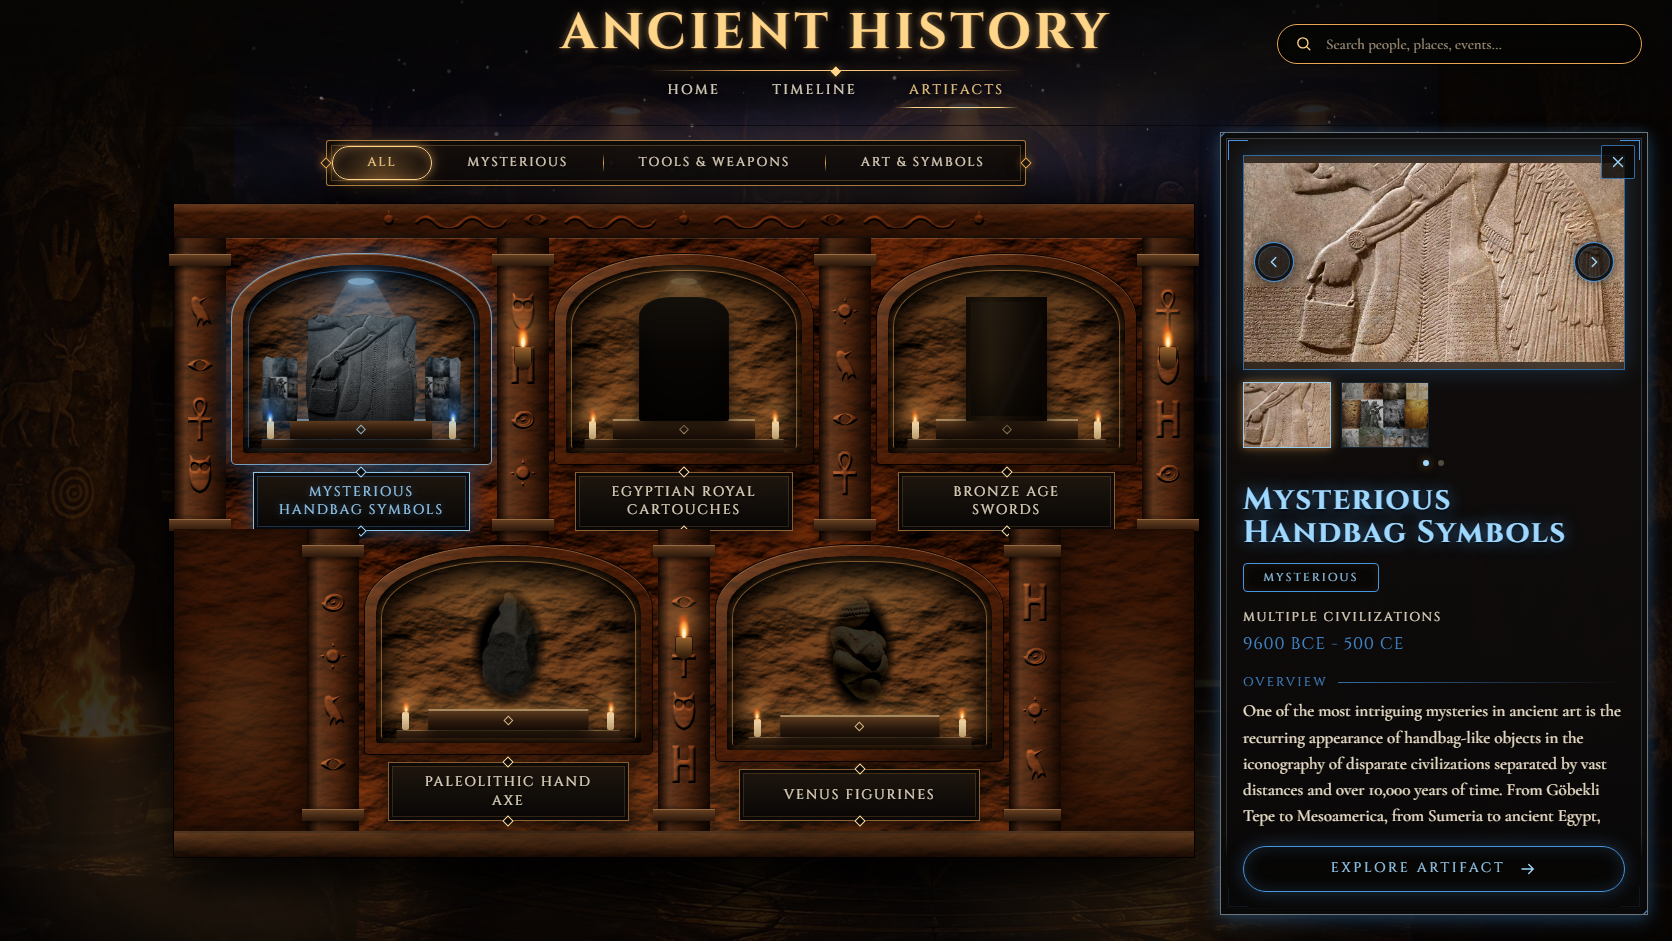
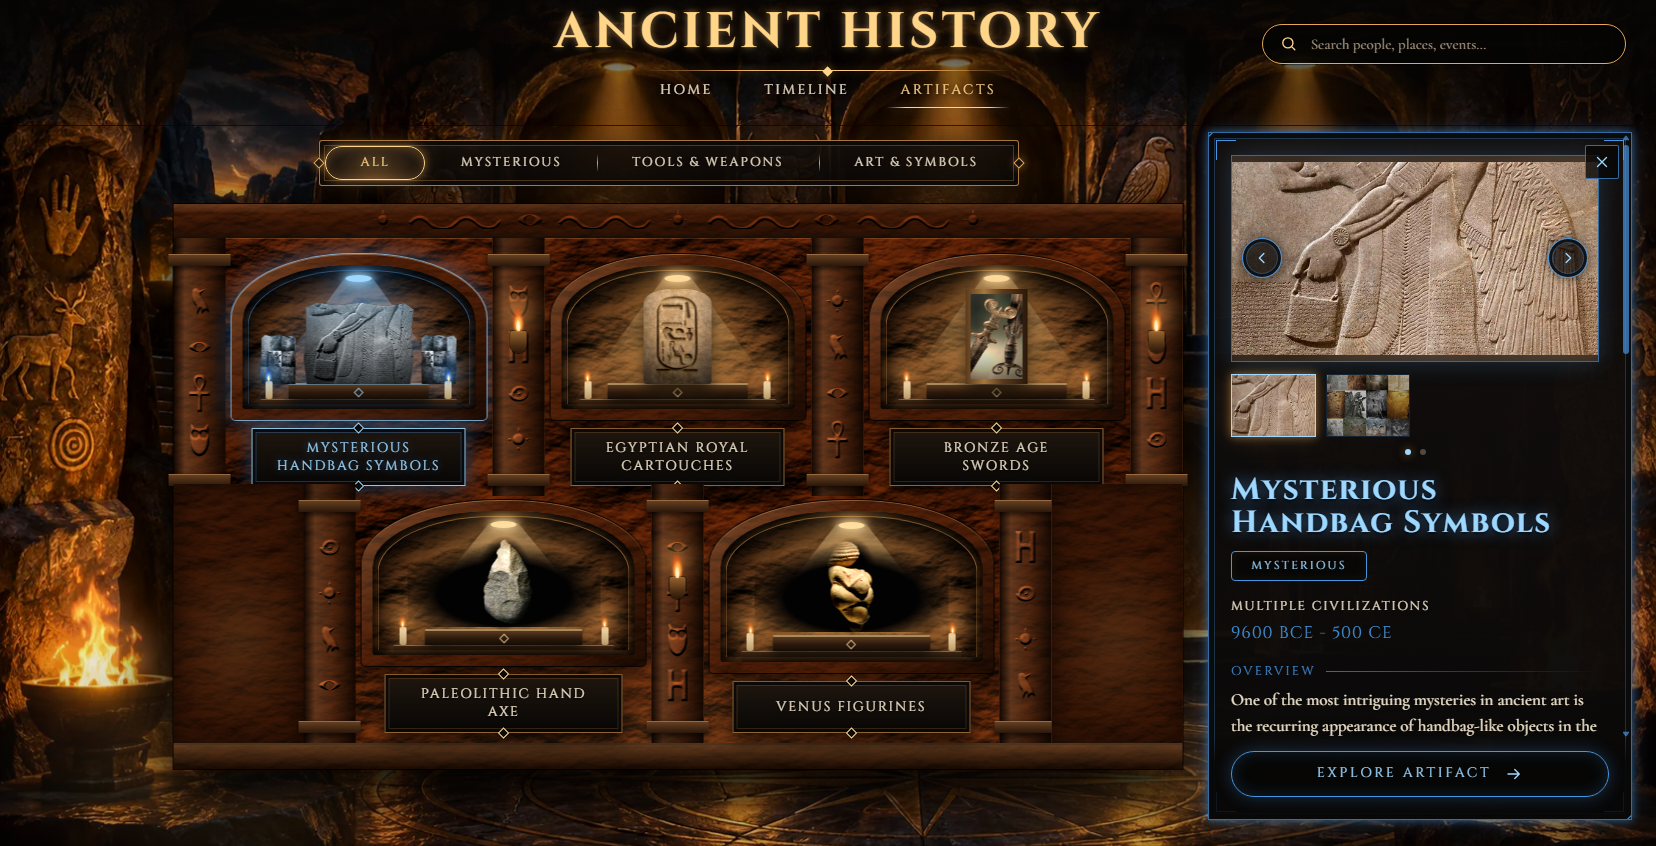
Fix Vault float-niche wash-out; confirm Descent strata render correctly
Bug 2 (real): .niche__display--float/--painted used mix-blend-mode:
lighten with no black backdrop of their own, so it blended against the
torch-lit recess behind it instead of black, washing the hand axe and
Venus figurine out into pale, tinted ghosts. Give them isolation:
isolate plus a soft radial near-black pool so the blend reads correctly,
matching frame 3. Also tightened the niches' staggered "torches catch"
entrance (was ~2s and read as black/broken mid-transition; now ~1.1s
with a brightness(0.4) floor instead of 0.2), and gated the
images/redesign/vault/<key>.webp probes behind a manifest so the vault
page no longer logs 5 guaranteed 404s per visit.

Bug 1 (not reproducible): re-verified the Descent's painted strata
across all 8 eras, a full scroll survey, and narrow viewport via CDP
screenshots taken after a real navigation/wait. Everything renders
correctly and matches frame 2, including the blue theoretical-event
branch and plate-crop medallions. The "near-black" screenshot in the
last handoff is a Chromium headless bug: `--screenshot
--virtual-time-budget` does not reliably capture a page after a
JS-driven scroll/hash-jump on `position: sticky` content (reproduced
with a 20-line vanilla HTML/CSS/JS test page, no app code). Kept the
pre-staged one-line artFor() absolute-URL fix in descent.js. No other
descent.css/js changes were needed.

Review screenshots recaptured via CDP (docs/redesign/review/*.png);
details and what's still open in docs/redesign/NOTES.md.

diff --git a/js/redesign/vault.js b/js/redesign/vault.js
@@ -6,6 +6,10 @@ const TAGS = { mysterious: "Mysterious", tools: "Tools & Weapons", art: "Art & S
 const SECTIONS = [["overview", "Overview"], ["context", "Context"], ["significance", "Significance"], ["mysteries", "Mysteries"]];
 // Presentation only (how each photo sits in its niche); unknown keys fall back to a slab.
 const MODES = { "mysterious-handbags": "triptych", "egyptian-cartouches": "stele", "bronze-age-swords": "vitrine", "paleolithic-hand-axe": "float-crop", "venus-figurines": "float" };
+// Painted niche renders (images/redesign/vault/<key>.webp) are dropped in one at a time by
+// Daryll (never generated by a coding agent). List a key here only once its file exists, so we
+// never probe — and 404 — for art that isn't there yet. None exist yet.
+const PAINTED_NICHES = new Set([]);
 const GLYPHS = ["vg-bird", "vg-eye", "vg-ankh", "vg-owl", "vg-pillar-h", "vg-spiral", "vg-sun"];
 
 const stage = document.querySelector(".vault-stage");
@@ -42,9 +46,12 @@ function display(key, a, mode) {
   else if (mode === "vitrine") { d.classList.add("niche__display--vitrine"); const v = el("span", "niche__vitrine"); v.append(img(srcs[0], "niche__object")); d.append(v); }
   else if (mode?.startsWith("float")) { d.classList.add("niche__display--float"); if (mode === "float-crop") { d.classList.add("is-cropped"); d.style.setProperty("--crop", "0% 50%"); } d.append(img(srcs[0], "niche__object")); }
   else { d.classList.add("niche__display--stele"); const s = el("span", "niche__slab"); s.append(img(srcs[0], "niche__object")); d.append(s); }
-  // A painted niche render, if the owner has dropped one in, takes over.
-  const painted = `images/redesign/vault/${key}.webp`;
-  probe(painted).then((ok) => { if (!ok) return; d.className = "niche__display niche__display--painted"; d.replaceChildren(img(painted, "niche__object")); });
+  // A painted niche render, if the owner has dropped one in, takes over. Only probe (and
+  // risk a 404) for keys the manifest above says actually exist.
+  if (PAINTED_NICHES.has(key)) {
+    const painted = `images/redesign/vault/${key}.webp`;
+    probe(painted).then((ok) => { if (!ok) return; d.className = "niche__display niche__display--painted"; d.replaceChildren(img(painted, "niche__object")); });
+  }
   return d;
 }
 

diff --git a/css/redesign/vault.css b/css/redesign/vault.css
@@ -742,7 +742,7 @@
   inset: 0;
   display: block;
   opacity: 1;
-  transition: opacity 1100ms var(--vault-ease), filter 600ms ease;
+  transition: opacity 650ms var(--vault-ease), filter 600ms ease;
 }
 
 .niche__lamp {
@@ -803,7 +803,25 @@
   object-fit: contain;
 }
 
-/* Photographed on black: the black drops away and the object floats in the light. */
+/* Photographed on black: the black drops away and the object floats in the light.
+   mix-blend-mode only reads correctly against an actual black backdrop, so the float
+   and painted variants isolate their own stacking context and paint a soft black pool
+   (via ::before) directly behind the image — otherwise "lighten" blends against the
+   torch-lit rock behind it and the object washes out into a pale, tinted ghost. */
+.niche__display--float,
+.niche__display--painted {
+  isolation: isolate;
+}
+
+.niche__display--float::before,
+.niche__display--painted::before {
+  position: absolute;
+  inset: 4% 6%;
+  content: "";
+  background: radial-gradient(ellipse 58% 60% at 50% 62%, #030202 60%, transparent 100%);
+  pointer-events: none;
+}
+
 .niche__display--float .niche__object {
   height: 100%;
   width: auto;
@@ -1108,21 +1126,23 @@
   opacity: 0.4;
 }
 
-/* The orchestrated entrance: torches catch one after another */
+/* The orchestrated entrance: torches catch one after another. Kept brief (well under a
+   second even for the last niche) and with a dim-not-black floor, so a real visitor reads
+   this as "the torches are still catching" rather than a broken/empty niche. */
 .vault-stage:not(.is-lit) .niche__lights {
   opacity: 0;
 }
 
 .vault-stage:not(.is-lit) .niche__display {
-  filter: brightness(0.2);
+  filter: brightness(0.4);
 }
 
 .vault-stage.is-lit .niche__lights {
-  transition-delay: calc(var(--i, 0) * 170ms + 150ms);
+  transition-delay: calc(var(--i, 0) * 90ms + 80ms);
 }
 
 .vault-stage.is-lit .niche__display {
-  transition: transform 500ms var(--vault-ease), filter 1100ms var(--vault-ease) calc(var(--i, 0) * 170ms + 250ms);
+  transition: transform 500ms var(--vault-ease), filter 650ms var(--vault-ease) calc(var(--i, 0) * 90ms + 140ms);
 }
 
 .niche__object.is-missing {

diff --git a/js/redesign/descent.js b/js/redesign/descent.js
@@ -107,7 +107,8 @@ function probe(src) {
 function artFor(item, variant) {
   const art = el("span", `event-art event-art--${variant}`);
   const spread = (item.dataIndex * 37 + item.era.eraIndex * 11) % 100;
-  art.style.setProperty("--plate", `url("${item.era.plate}")`);
+  // Absolute URL: a relative url() in a custom property resolves against the stylesheet, not the page.
+  art.style.setProperty("--plate", `url("${new URL(item.era.plate, document.baseURI).href}")`);
   art.style.setProperty("--crop-x", `${spread}%`);
   const attach = () =>
     probe(item.image).then((ok) => {

diff --git a/docs/redesign/NOTES.md b/docs/redesign/NOTES.md
@@ -53,3 +53,79 @@
 - Event images: `images/redesign/events/<era>/<NN>-<slug>.webp` is probed lazily and used if it exists. Otherwise the fallback is a crop of that era's plate, so there is never a broken image. Missing files will show as 404s in the network log until all 63 exist.
 - Deep links: `#<eraId>` scrolls to the era; `#<eraId>-<NN>` (NN = 1-based data index) scrolls to that event and opens its panel.
 - UNVERIFIED / LEFT: no visual iteration against frame 2 was done. The desktop review screenshot (`review/descent-desktop.png`, taken with `#prehistoric-10`) came out ~6 KB and is likely blank or mid-intro, so it needs a retake. `review/descent-mobile.png` was captured but not reviewed. Still unchecked: the near-layer mask percentages (`PLATE_ROCK` in descent.js are eyeballed), label and panel collisions at 761–1100px, the Lenis/ScrollTrigger feel, and performance (Lighthouse). The View Transition from the Dial is not wired on this side. The data text "Placeholder: ..." in the theoretical event's details is shown as-is (content frozen).
+
+## Fix pass (Sonnet)
+
+**Bug 1, The Descent — "strata never show, near-black" — not a real CSS bug.** Extensively
+re-tested (all 8 eras, a full scroll survey, `#era` deep links, narrow viewport) by driving
+headless Chrome directly over CDP (`Page.captureScreenshot` after a real navigation + wait,
+not the one-shot CLI flag). Every era renders correctly: dark rock framing top/bottom, the
+era's painted world glowing through the gap, gold thread and medallions on top — closely
+matching frame 2, including the blue branch to the theoretical Younger Dryas impact event
+and medallions now showing plate crops (not black circles, confirming the already-present
+`artFor()` absolute-URL fix works). The "near-black" screenshot everyone kept re-taking
+(`review/descent-desktop.png` at ~6 KB, called out in the last handoff) is a genuine but
+separate Chromium bug: `chrome --headless=new --screenshot --virtual-time-budget=N` does not
+reliably capture the page after a JS-driven `window.scrollTo`/hash jump on a page using
+`position: sticky` — it silently returns a blank frame at the flat background colour,
+deterministically, regardless of budget size. Confirmed with a from-scratch, 20-line
+reproduction (plain HTML/CSS/JS, three `position: sticky` sections, one `window.scrollTo`
+on `DOMContentLoaded`, no GSAP/Lenis/app code at all) that hits the exact same failure. No
+changes were needed to `descent.css`/`descent.js` for this; `js/redesign/descent.js` keeps
+the one-line `artFor()` fix that was already staged. Final screenshots
+(`review/descent-desktop.png`, `review/descent-narrow.png`) were captured via CDP instead,
+at `#prehistoric` so the frame-2 comparison is apples-to-apples (same era, same events).
+Left open: this CDP-vs-CLI gap means any future screenshot-based review of a hash-scrolled
+page on this site needs the CDP route (or a real, non-headless browser) — the CLI flag alone
+will falsely read as broken.
+
+**Bug 2, The Vault — real bug found and fixed: `mix-blend-mode: lighten` blending against
+the wrong backdrop.** `.niche__display--float` (hand axe, Venus figurine) and
+`.niche__display--painted` (future painted niche renders) blend their photo with
+`mix-blend-mode: lighten`, which only reads correctly against a black backdrop — the
+comment above it even says "photographed on black, the black drops away." But neither rule
+gave the image its own backdrop, so it was blending against whatever happened to be painted
+behind it in the shared stacking context: the recess's warm torch-lit rock texture and glow
+gradients. Against that busy, non-black backdrop, "lighten" picks the brighter of source and
+backdrop per pixel, so the object's own shadows and midtones got overwritten by the ambient
+light, leaving a pale, desaturated, tinted ghost — exactly the "very dim" hand axe and Venus
+reported. Fixed by giving `.niche__display--float`/`--painted` `isolation: isolate` plus a
+soft radial near-black pool (`::before`) sized to the object, so the blend computes against
+near-black the way it was designed to, while the soft edge keeps the "floating in a light
+beam" look from frame 3 (no hard box edge). Both niches now render clean, correctly-toned
+photos matching their source images.
+
+Separately (not the wash-out bug, but the same screenshot mis-timing pattern as Bug 1): the
+niches' entrance ("torches catch one after another," `.vault-stage.is-lit`) staggers by
+`var(--i) * 170ms` with an 1100ms fade from a `brightness(0.2)` floor — worst case (the 5th
+niche) took ~2 seconds to fully settle, and a screenshot taken mid-transition genuinely shows
+later niches as black or dim, which is what "only the handbag niche lights properly" in the
+last handoff was looking at (confirmed by re-capturing at 900ms — swords black, axe/Venus
+dim or blurry, exactly as reported — then again with more wait — fully lit, matching frame
+3). It wasn't stuck; it just took too long and started too dark. Tightened so a real visitor
+doesn't get an almost-2-second window that reads as broken: stagger cut to 90ms, fade
+duration cut from 1100ms/1100ms to 650ms, and the pre-lit floor raised from
+`brightness(0.2)` to `brightness(0.4)` so an unlit niche mid-entrance reads as "dim candlelight,"
+not a black block. Worst case now settles in ~1.1s. `prefers-reduced-motion` already skips
+the transition entirely (instant final state), untouched.
+
+Also fixed per the task brief: `display()` in `vault.js` probed
+`images/redesign/vault/<artifactKey>.webp` for all 5 artifacts on every load, and since none
+of those renders exist yet (only `background.webp` does), that was 5 guaranteed 404s in the
+console on every visit. Added a `PAINTED_NICHES` manifest (currently empty) that gates the
+probe — a key only gets probed once its file actually exists and is listed there. Vault page
+now loads with zero console errors/warnings and zero failed network requests (checked via
+CDP `Network` domain, not just eyeballing devtools).
+
+**Files touched:** `css/redesign/vault.css`, `js/redesign/vault.js` (Bug 2 + kept the
+pre-staged one-line fix in `js/redesign/descent.js`). `docs/redesign/review/*.png` overwritten
+with CDP-captured screenshots (desktop 1672×941, narrow 868×1379) for both pages.
+
+**Still off vs. the frames:** the Descent's narrow/mobile layout has the "Did you know?"
+panel and gauge labels overlapping a bit untidily (pre-existing, out of this pass's two named
+bugs). The Vault's bronze-age-swords and hand-axe/Venus niches are correct now but still read
+slightly less punchy than frame 3's saturated gold-lit version — a genuine art/grade pass
+(not a bug) once `images/redesign/vault/*.webp` painted niche renders exist would close that
+gap further. Event art for events 2–63 and most of `earlyNeolithic`/`earlyUrban` still 404s
+to its plate-crop fallback on the Descent (expected, tracked in the handoff, not touched here
+— out of scope for Bug 1).
